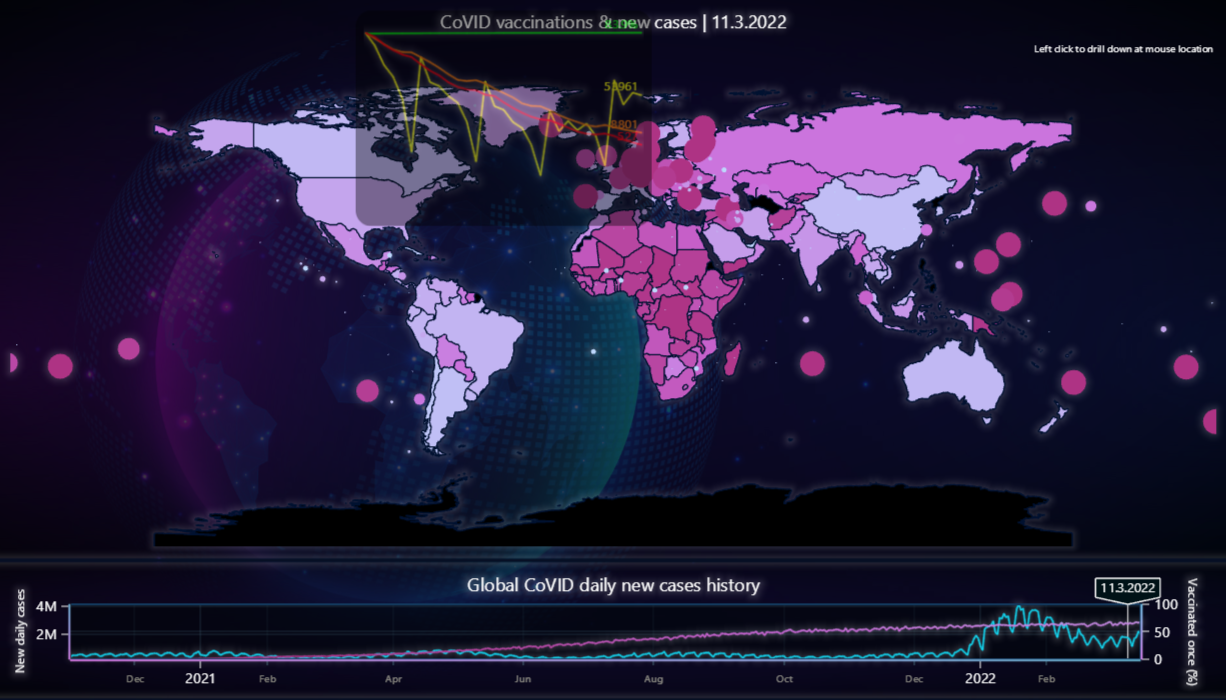
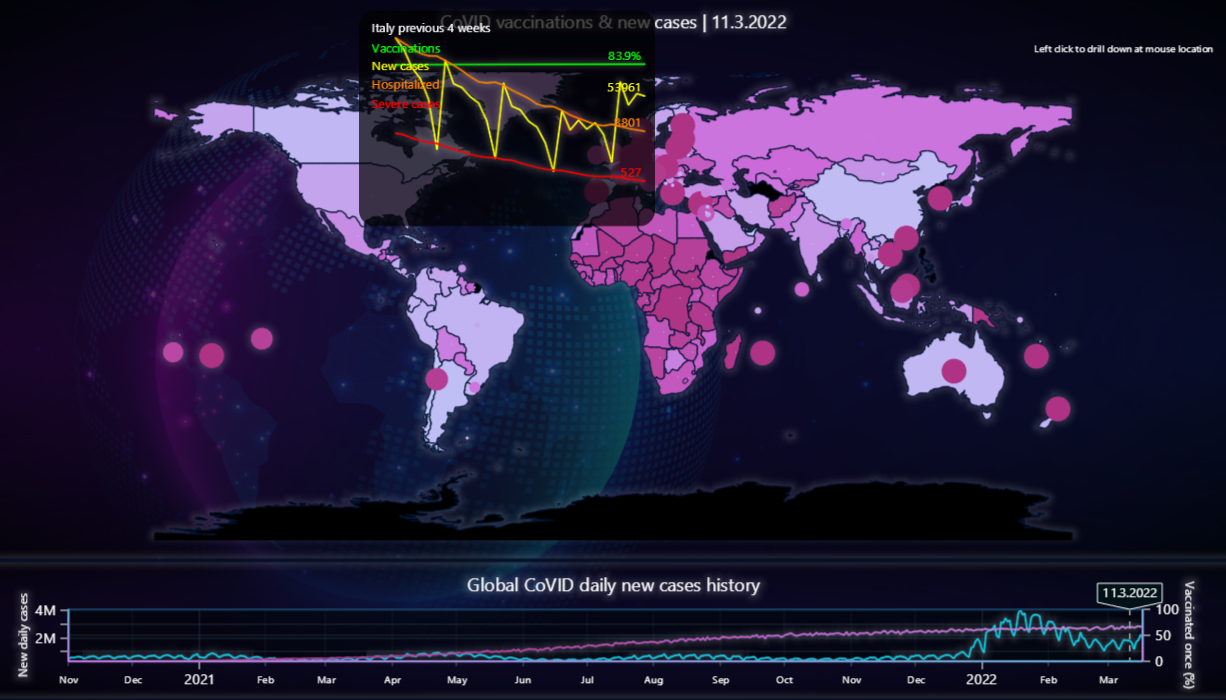
LCJS v7.0.1

diff --git a/src/index.js b/src/index.js
@@ -129,7 +129,7 @@ const drillDownOutButton = dashboard
     .setDraggingMode(UIDraggingModes.notDraggable)
     .setMouseStyle(MouseStyles.Point)
 
-dashboard.onResize(() => {
+dashboard.addEventListener('resize', (event) => {
     const dbBounds = dashboard.engine.container.getBoundingClientRect()
     drillDownTip.setPosition({ x: dbBounds.width - 8, y: dbBounds.height - 40 })
     drillDownOutButton.setPosition({ x: 8, y: dbBounds.height - 8 })
@@ -228,24 +228,21 @@ dashboard.onResize(() => {
             })
             .setTitle('Global CoVID daily new cases history')
             .setCursorMode(undefined)
-            .setMouseInteractions(false)
+            .setUserInteractions(undefined)
 
         const timeLineHighlighterAxis = timelineChart
             .addAxisX({ opposite: true })
             .setTickStrategy(AxisTickStrategies.Empty)
             .setStrokeStyle(emptyLine)
-            .setMouseInteractions(false)
         const timeLineHighlighter = timeLineHighlighterAxis
             .addCustomTick(UIElementBuilders.PointableTextBox)
-            .setMouseInteractions(true)
             .setAllocatesAxisSpace(false)
             .setTextFormatter((time) => new Date(time).toLocaleDateString('fin', {}))
         synchronizeAxisIntervals(timelineChart.getDefaultAxisX(), timeLineHighlighterAxis)
 
-        timelineChart.addLineSeries({ dataPattern: { pattern: 'ProgressiveX' } }).add(newCasesHistoryDataXY)
+        timelineChart.addPointLineAreaSeries({ dataPattern: 'ProgressiveX' }).setAreaFillStyle(emptyFill).appendJSON(newCasesHistoryDataXY)
         timelineChart
             .getDefaultAxisY()
-            .setMouseInteractions(false)
             .setTitle('New daily cases')
             .setTitleFont((font) => font.setSize(12))
             .setTickStrategy(AxisTickStrategies.Numeric, (ticks) => ticks.setFormattingFunction(FormattingFunctions.NumericUnits))
@@ -255,11 +252,11 @@ dashboard.onResize(() => {
             .addAxisY({ opposite: true })
             .setTitle('Vaccinated once (%)')
             .setTitleFont((font) => font.setSize(12))
-            .setMouseInteractions(false)
             .setInterval({ start: 0, end: 100 })
         timelineChart
-            .addLineSeries({ dataPattern: { pattern: 'ProgressiveX' }, yAxis: axisVaccinated })
-            .add(vaccinatedPerHundredHistoryDataXY)
+            .addPointLineAreaSeries({ dataPattern: 'ProgressiveX', yAxis: axisVaccinated })
+            .setAreaFillStyle(emptyFill)
+            .appendJSON(vaccinatedPerHundredHistoryDataXY)
             .setStrokeStyle(
                 new SolidLine({
                     thickness: 2,
@@ -270,20 +267,28 @@ dashboard.onResize(() => {
                 }),
             )
 
-        timelineChart.getDefaultAxisX().setTickStrategy(AxisTickStrategies.DateTime).setMouseInteractions(false).fit(false)
-        timeLineHighlighter.onMouseDrag((_, event) => {
-            const locationAxis = timelineChart.translateCoordinate(event, timelineChart.coordsAxis)
-            const displayTimeNew = Math.min(Math.max(locationAxis.x, newCasesHistoryDataTimeStart), tMax)
-            timeLineHighlighter.setValue(displayTimeNew)
-            if (totalCasesTimelineView.onChange) {
-                totalCasesTimelineView.onChange(displayTimeNew)
-            }
-        })
-        timeLineHighlighter.onMouseEnter((_, e) => {
+        timelineChart.getDefaultAxisX().setTickStrategy(AxisTickStrategies.DateTime).fit(false)
+        timeLineHighlighter.addEventListener('pointerenter', (event) => {
             timelineChart.engine.setMouseStyle(MouseStyles.Horizontal)
         })
-        timeLineHighlighter.onMouseLeave((_, e) => {
+        timeLineHighlighter.addEventListener('pointerleave', (event) => {
             timelineChart.engine.setMouseStyle(MouseStyles.Default)
+        })
+        timeLineHighlighter.addEventListener('pointerdown', (event) => {
+            const handleMove = (event) => {
+                const locationAxis = timelineChart.translateCoordinate(event, timelineChart.coordsAxis)
+                const displayTimeNew = Math.min(Math.max(locationAxis.x, newCasesHistoryDataTimeStart), tMax)
+                timeLineHighlighter.setValue(displayTimeNew)
+                if (totalCasesTimelineView.onChange) {
+                    totalCasesTimelineView.onChange(displayTimeNew)
+                }
+            }
+            const handleUp = (event) => {
+                document.body.removeEventListener('pointermove', handleMove)
+                document.body.removeEventListener('pointerup', handleUp)
+            }
+            document.body.addEventListener('pointermove', handleMove)
+            document.body.addEventListener('pointerup', handleUp)
         })
         console.timeEnd('calculate new cases history')
 
@@ -330,7 +335,7 @@ dashboard.onResize(() => {
                 type: mapType,
             })
             .setCursorMode(undefined)
-            .setMouseInteractions(false)
+            .setPointerEvents(false)
             .setPadding({ top: 40 })
 
         const mapChartXY = dashboard
@@ -343,24 +348,23 @@ dashboard.onResize(() => {
             .setSeriesBackgroundFillStyle(transparentFill)
             .setSeriesBackgroundStrokeStyle(emptyLine)
             .setCursorMode(undefined)
-            .setMouseInteractions(false)
+            .setUserInteractions(undefined)
 
         mapChartXY.forEachAxis((axis) => axis.setTickStrategy(AxisTickStrategies.Empty).setStrokeStyle(emptyLine))
-
-        mapChart.onViewChange((view) => {
+        mapChart.addEventListener('viewchange', (event) => {
             mapChartXY.setPadding({
-                left: view.margin.left,
-                right: view.margin.right,
-                top: view.margin.top,
-                bottom: view.margin.bottom,
+                left: event.margin.left,
+                right: event.margin.right,
+                top: event.margin.top,
+                bottom: event.margin.bottom,
             })
             mapChartXY.getDefaultAxisX().setInterval({
-                start: view.longitudeRange.start,
-                end: view.longitudeRange.end,
+                start: event.longitudeRange.start,
+                end: event.longitudeRange.end,
             })
             mapChartXY.getDefaultAxisY().setInterval({
-                start: view.latitudeRange.start,
-                end: view.latitudeRange.end,
+                start: event.latitudeRange.start,
+                end: event.latitudeRange.end,
             })
         })
 
@@ -374,7 +378,7 @@ dashboard.onResize(() => {
             .addPointLineAreaSeries({ dataPattern: null, sizes: true, lookupValues: true, ids: true })
             .setStrokeStyle(emptyLine)
             .setPointFillStyle(new PalettedFill({ lut: lutNewCasesPerMillion }))
-            .setMouseInteractions(false)
+            .setPointerEvents(false)
 
         let regions = []
         const setDisplayTime = (time, updateTimeLineBand = false) => {
@@ -462,7 +466,7 @@ dashboard.onResize(() => {
             })
             .setTitle('')
             .setPadding({ left: 0, bottom: 0, right: 0, top: 14 })
-            .setMouseInteractions(false)
+            .setUserInteractions(undefined)
             .setBackgroundFillStyle(theme.cursorResultTableFillStyle)
         chartOverlayCursor
             .setBackgroundFillStyle(emptyFill)
@@ -490,7 +494,9 @@ dashboard.onResize(() => {
                 .setScrollStrategy(AxisScrollStrategies.expansion)
             return {
                 series: chartOverlayCursor
-                    .addLineSeries({ yAxis, dataPattern: { pattern: 'ProgressiveX' } })
+                    .addPointLineAreaSeries({ yAxis, dataPattern: 'ProgressiveX' })
+                    .setAreaFillStyle(emptyFill)
+                    .setPointFillStyle(emptyFill)
                     .setStrokeStyle((stroke) => stroke.setFillStyle(fill)),
                 label: ChartOverlayItem(label).setTextFillStyle(fill),
                 valueLabel: chartOverlayCursor
@@ -550,20 +556,20 @@ dashboard.onResize(() => {
         containerOverlayCursor.style.opacity = '0.0'
         containerOverlayCursor.style.pointerEvents = 'none'
         chartOverlayCursor.forEachAxis((axis) =>
-            axis.setTickStrategy(AxisTickStrategies.Empty).setStrokeStyle(emptyLine).setMouseInteractions(false),
+            axis.setTickStrategy(AxisTickStrategies.Empty).setStrokeStyle(emptyLine).setPointerEvents(false),
         )
 
         let cursorTarget
         let cursorActiveCountry
         let cursorLastPointedCountry
 
-        mapChart.onMapDataReady(() => {
+        mapChart.addEventListener('ready', (event) => {
             setTimeout(() => {
                 cursorTarget = { countryCode: 'ITA', x: 12.83, y: 42.83 }
             }, 500)
         })
 
-        mapChartXY.onSeriesBackgroundMouseMove((_, event) => {
+        mapChartXY.seriesBackground.addEventListener('pointermove', (event) => {
             const nearest = scatterSeries.solveNearest(event)
             const region = regions[nearest?.id]
             if (nearest && region) {
@@ -571,7 +577,7 @@ dashboard.onResize(() => {
                 cursorLastPointedCountry = cursorTarget.countryCode
             }
         })
-        mapChartXY.onSeriesBackgroundMouseLeave(() => {
+        mapChartXY.seriesBackground.addEventListener('pointerleave', (event) => {
             cursorActiveCountry = undefined
             cursorTarget = undefined
         })
@@ -644,8 +650,7 @@ dashboard.onResize(() => {
         }, 1000 / 60)
 
         detectMouseClicks(
-            mapChartXY.onSeriesBackgroundMouseClick.bind(mapChartXY),
-            mapChartXY.onSeriesBackgroundMouseDoubleClick.bind(mapChartXY),
+            mapChartXY.seriesBackground,
             (e) => {
                 if (window.performance.now() - tLastMapViewChange < 750) {
                     return
@@ -683,13 +688,13 @@ dashboard.onResize(() => {
             },
         )
 
-        const subDrillDownOutButtonClick = drillDownOutButton.onMouseClick((_, e) => {
+        const handleClickDrillDown = (event) => {
             if (mapType !== 'World' && window.performance.now() - tLastMapViewChange > 500) {
                 disposeChart()
                 activateMapView('World')
             }
-        })
-
+        }
+        drillDownOutButton.addEventListener('click', handleClickDrillDown)
         let disposeChart = () => {
             clearInterval(intervalUpdateCursor)
             clearInterval(intervalUpdateTimeRange)
@@ -697,7 +702,7 @@ dashboard.onResize(() => {
             mapChartXY.dispose()
             chartOverlayCursor.dispose()
             containerOverlayCursor.remove()
-            drillDownOutButton.offMouseClick(subDrillDownOutButtonClick)
+            drillDownOutButton.removeEventListener('click', handleClickDrillDown)
             disposeChart = () => {}
         }
     }
@@ -780,8 +785,8 @@ dashboard.onResize(() => {
                     .setTextFont((font) => font.setSize(22))
                     .setBackground((background) => background.setFillStyle(emptyFill).setStrokeStyle(emptyLine))
 
-                chart.onResize(() => {
-                    dashboardTitle.setPosition({ x: 140, y: chart.getSizePixels().y }).setOrigin(UIOrigins.LeftTop)
+                chart.addEventListener('layoutchange', (event) => {
+                    dashboardTitle.setOrigin(UIOrigins.LeftTop).setPosition({ x: 140, y: event.height - 10 })
                 })
 
                 // Add selector for displaying relative / actual values.
@@ -791,8 +796,8 @@ dashboard.onResize(() => {
                     .setOrigin(UIOrigins.RightTop)
                     .setMargin({ top: 14, right: 24 })
                     .setDraggingMode(UIDraggingModes.notDraggable)
-                selector.onMouseEnter((_) => chart.engine.setMouseStyle(MouseStyles.Point))
-                selector.onMouseLeave((_) => chart.engine.setMouseStyle(MouseStyles.Default))
+                selector.addEventListener('pointerenter', () => chart.engine.setMouseStyle(MouseStyles.Point))
+                selector.addEventListener('pointerleave', () => chart.engine.setMouseStyle(MouseStyles.Default))
                 const setState = (displayRelative) => {
                     if (displayRelative !== showRelativeValuesState) {
                         showRelativeValuesState = displayRelative
@@ -802,14 +807,14 @@ dashboard.onResize(() => {
                     }
                     selector.setText(displayRelative ? 'Show actual values' : 'Show relative values')
                 }
-                selector.onMouseClick((_) => setState(!showRelativeValuesState))
+                selector.addEventListener('click', () => setState(!showRelativeValuesState))
                 setState(showRelativeValuesState)
             }
 
             const axisX = chart.getDefaultAxisX().setAnimationScroll(false)
             if (iTrend < _trends.length - 1) {
                 axisX
-                    .setMouseInteractions(false)
+                    .setPointerEvents(false)
                     .setThickness(0)
                     .setStrokeStyle(emptyLine)
                     .setTickStrategy(AxisTickStrategies.DateTime, (ticks) =>
@@ -832,9 +837,10 @@ dashboard.onResize(() => {
             }
 
             const series = chart
-                .addLineSeries({
-                    dataPattern: { pattern: 'ProgressiveX' },
+                .addPointLineAreaSeries({
+                    dataPattern: 'ProgressiveX',
                 })
+                .setAreaFillStyle(emptyFill)
                 .setName(`${countryInformation.name.common}`)
             const dataXY = trend.dataSet.data
                 .map((sample) => ({
@@ -842,17 +848,18 @@ dashboard.onResize(() => {
                     y: sample[trend.property],
                 }))
                 .filter((point) => point.y !== undefined && point.x >= newCasesHistoryDataTimeStart)
-            series.add(dataXY)
+            series.appendJSON(dataXY)
 
             const averageData = averagesData && averagesData[trend.property]
             let seriesAverage
             if (averageData) {
                 seriesAverage = chart
-                    .addLineSeries({
-                        dataPattern: { pattern: 'ProgressiveX' },
+                    .addPointLineAreaSeries({
+                        dataPattern: 'ProgressiveX',
                     })
+                    .setAreaFillStyle(emptyFill)
                     .setName('Global average')
-                    .add(averageData)
+                    .appendJSON(averageData)
                 const styleNormal = series.getStrokeStyle()
                 seriesAverage.setStrokeStyle(styleNormal.setFillStyle(styleNormal.getFillStyle().setA(100)))
             }
@@ -873,27 +880,17 @@ dashboard.onResize(() => {
             activateMapView(returnView)
         }
         trends.forEach((trend) => {
-            detectMouseClicks(
-                trend.chart.onSeriesBackgroundMouseClick.bind(trend.chart),
-                trend.chart.onSeriesBackgroundMouseDoubleClick.bind(trend.chart),
-                (e) => {},
-                returnPreviousView,
-            )
-            detectMouseClicks(
-                trend.chart.onBackgroundMouseClick.bind(trend.chart),
-                trend.chart.onBackgroundMouseDoubleClick.bind(trend.chart),
-                (e) => {},
-                returnPreviousView,
-            )
+            detectMouseClicks(trend.chart.seriesBackground, (e) => {}, returnPreviousView)
+            detectMouseClicks(trend.chart.background, (e) => {}, returnPreviousView)
         })
 
-        const subDrillDownOutButtonClick = drillDownOutButton.onMouseClick(() => returnPreviousView())
+        drillDownOutButton.addEventListener('click', returnPreviousView)
 
         let disposeChart = () => {
             trends.forEach((trend) => {
                 trend.chart.dispose()
             })
-            drillDownOutButton.offMouseClick(subDrillDownOutButtonClick)
+            drillDownOutButton.removeEventListener('click', returnPreviousView)
             disposeChart = undefined
         }
 
@@ -982,16 +979,16 @@ const integerToFixedLengthString = (num, len) => {
     return str
 }
 
-const detectMouseClicks = (onMouseClick, onMouseDoubleClick, handleSingleClick, handleDoubleClick) => {
+const detectMouseClicks = (interactable, handleSingleClick, handleDoubleClick) => {
     let tLastDoubleClick = 0
-    onMouseClick((_, e) => {
+    interactable.addEventListener('click', (e) => {
         setTimeout(() => {
             if (window.performance.now() - tLastDoubleClick >= 500) {
                 handleSingleClick(e)
             }
         }, 200)
     })
-    onMouseDoubleClick((_, e) => {
+    interactable.addEventListener('dblclick', (e) => {
         tLastDoubleClick = window.performance.now()
         handleDoubleClick(e)
     })

diff --git a/README.md b/README.md
@@ -107,14 +107,14 @@ Direct developer email support can be purchased through a [Support Plan][4] or b
 © LightningChart Ltd 2009-2022. All rights reserved.
 
 
-[Dashboard]: https://lightningchart.com/js-charts/api-documentation/v6.1.0/classes/Dashboard.html
-[Map Chart]: https://lightningchart.com/js-charts/api-documentation/v6.1.0/classes/MapChart.html
-[Chart XY]: https://lightningchart.com/js-charts/api-documentation/v6.1.0/classes/ChartXY.html
-[Axis]: https://lightningchart.com/js-charts/api-documentation/v6.1.0/classes/Axis.html
-[Axis scroll strategies]: https://lightningchart.com/js-charts/api-documentation/v6.1.0/variables/AxisScrollStrategies.html
-[Axis tick strategies]: https://lightningchart.com/js-charts/api-documentation/v6.1.0/variables/AxisTickStrategies.html
-[Lookup table]: https://lightningchart.com/js-charts/api-documentation/v6.1.0/classes/LUT.html
-[Line series]: https://lightningchart.com/js-charts/api-documentation/v6.1.0/classes/LineSeries.html
-[Point series]: https://lightningchart.com/js-charts/api-documentation/v6.1.0/classes/PointSeries.html
-[Band]: https://lightningchart.com/js-charts/api-documentation/v6.1.0/classes/Band.html
+[Dashboard]: https://lightningchart.com/js-charts/api-documentation/v7.0.1/classes/Dashboard.html
+[Map Chart]: https://lightningchart.com/js-charts/api-documentation/v7.0.1/classes/MapChart.html
+[Chart XY]: https://lightningchart.com/js-charts/api-documentation/v7.0.1/classes/ChartXY.html
+[Axis]: https://lightningchart.com/js-charts/api-documentation/v7.0.1/classes/Axis.html
+[Axis scroll strategies]: https://lightningchart.com/js-charts/api-documentation/v7.0.1/variables/AxisScrollStrategies.html
+[Axis tick strategies]: https://lightningchart.com/js-charts/api-documentation/v7.0.1/variables/AxisTickStrategies.html
+[Lookup table]: https://lightningchart.com/js-charts/api-documentation/v7.0.1/classes/LUT.html
+[Line series]: https://lightningchart.com/js-charts/api-documentation/v7.0.1/classes/LineSeries.html
+[Point series]: https://lightningchart.com/js-charts/api-documentation/v7.0.1/classes/PointSeries.html
+[Band]: https://lightningchart.com/js-charts/api-documentation/v7.0.1/classes/Band.html
 
